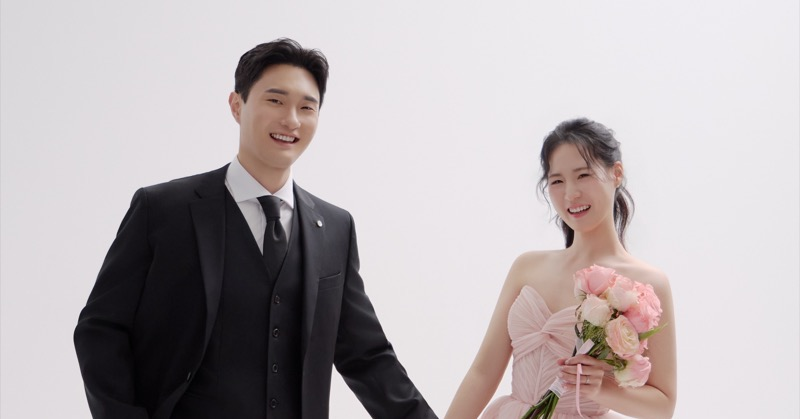
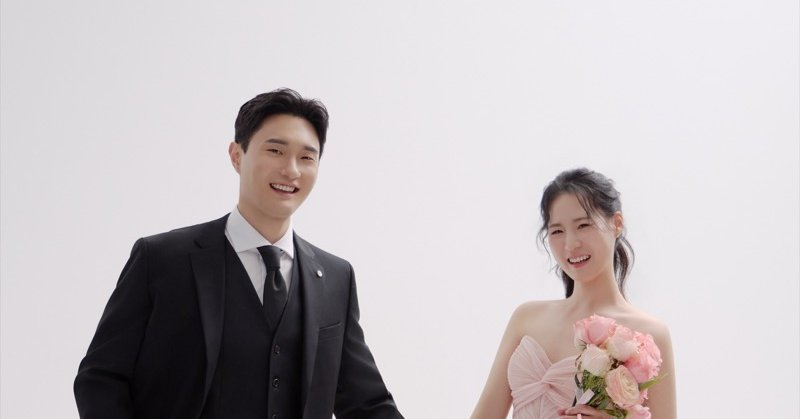
earlier_image_move

Changed region(s): [[0.0938, 0.0931, 0.8438, 1.0], [0.25, 0.7136, 0.2812, 0.8687]]

diff --git a/wedding/index.html b/wedding/index.html
@@ -3,19 +3,19 @@
 <head>
     <meta charset="UTF-8">
     <meta name="viewport" content="width=device-width, initial-scale=1.0">
-    <title>고한범 ♥ 윤수희 결혼합니다</title>
+    <title>고한범 ♥ 윤수희 결혼합니다.</title>
 
     <!-- ====== 카카오톡 공유 미리보기 (OG Tags) ====== -->
     <!-- TODO: og:url과 og:image의 도메인을 실제 배포 URL로 수정하세요 -->
     <meta property="og:type"         content="website">
-    <meta property="og:title"        content="고한범 ♥ 윤수희 결혼합니다">
+    <meta property="og:title"        content="고한범 ♥ 윤수희 결혼합니다.">
     <meta property="og:description"  content="2026년 6월 27일 토요일 오후 3시 · 소노펠리체 컨벤션">
     <meta property="og:image"        content="https://hanbumko.github.io/wedding/og-image.jpg">
     <meta property="og:image:width"  content="800">
     <meta property="og:image:height" content="419">
     <meta property="og:url"          content="https://hanbumko.github.io/wedding/">
     <meta name="twitter:card"        content="summary_large_image">
-    <meta name="twitter:title"       content="고한범 ♥ 윤수희 결혼합니다">
+    <meta name="twitter:title"       content="고한범 ♥ 윤수희 결혼합니다.">
     <meta name="twitter:description" content="2026년 6월 27일 토요일 오후 3시 · 소노펠리체 컨벤션에서해요">
     <meta name="twitter:image"       content="https://hanbumko.github.io/wedding/og-image.jpg">
 
